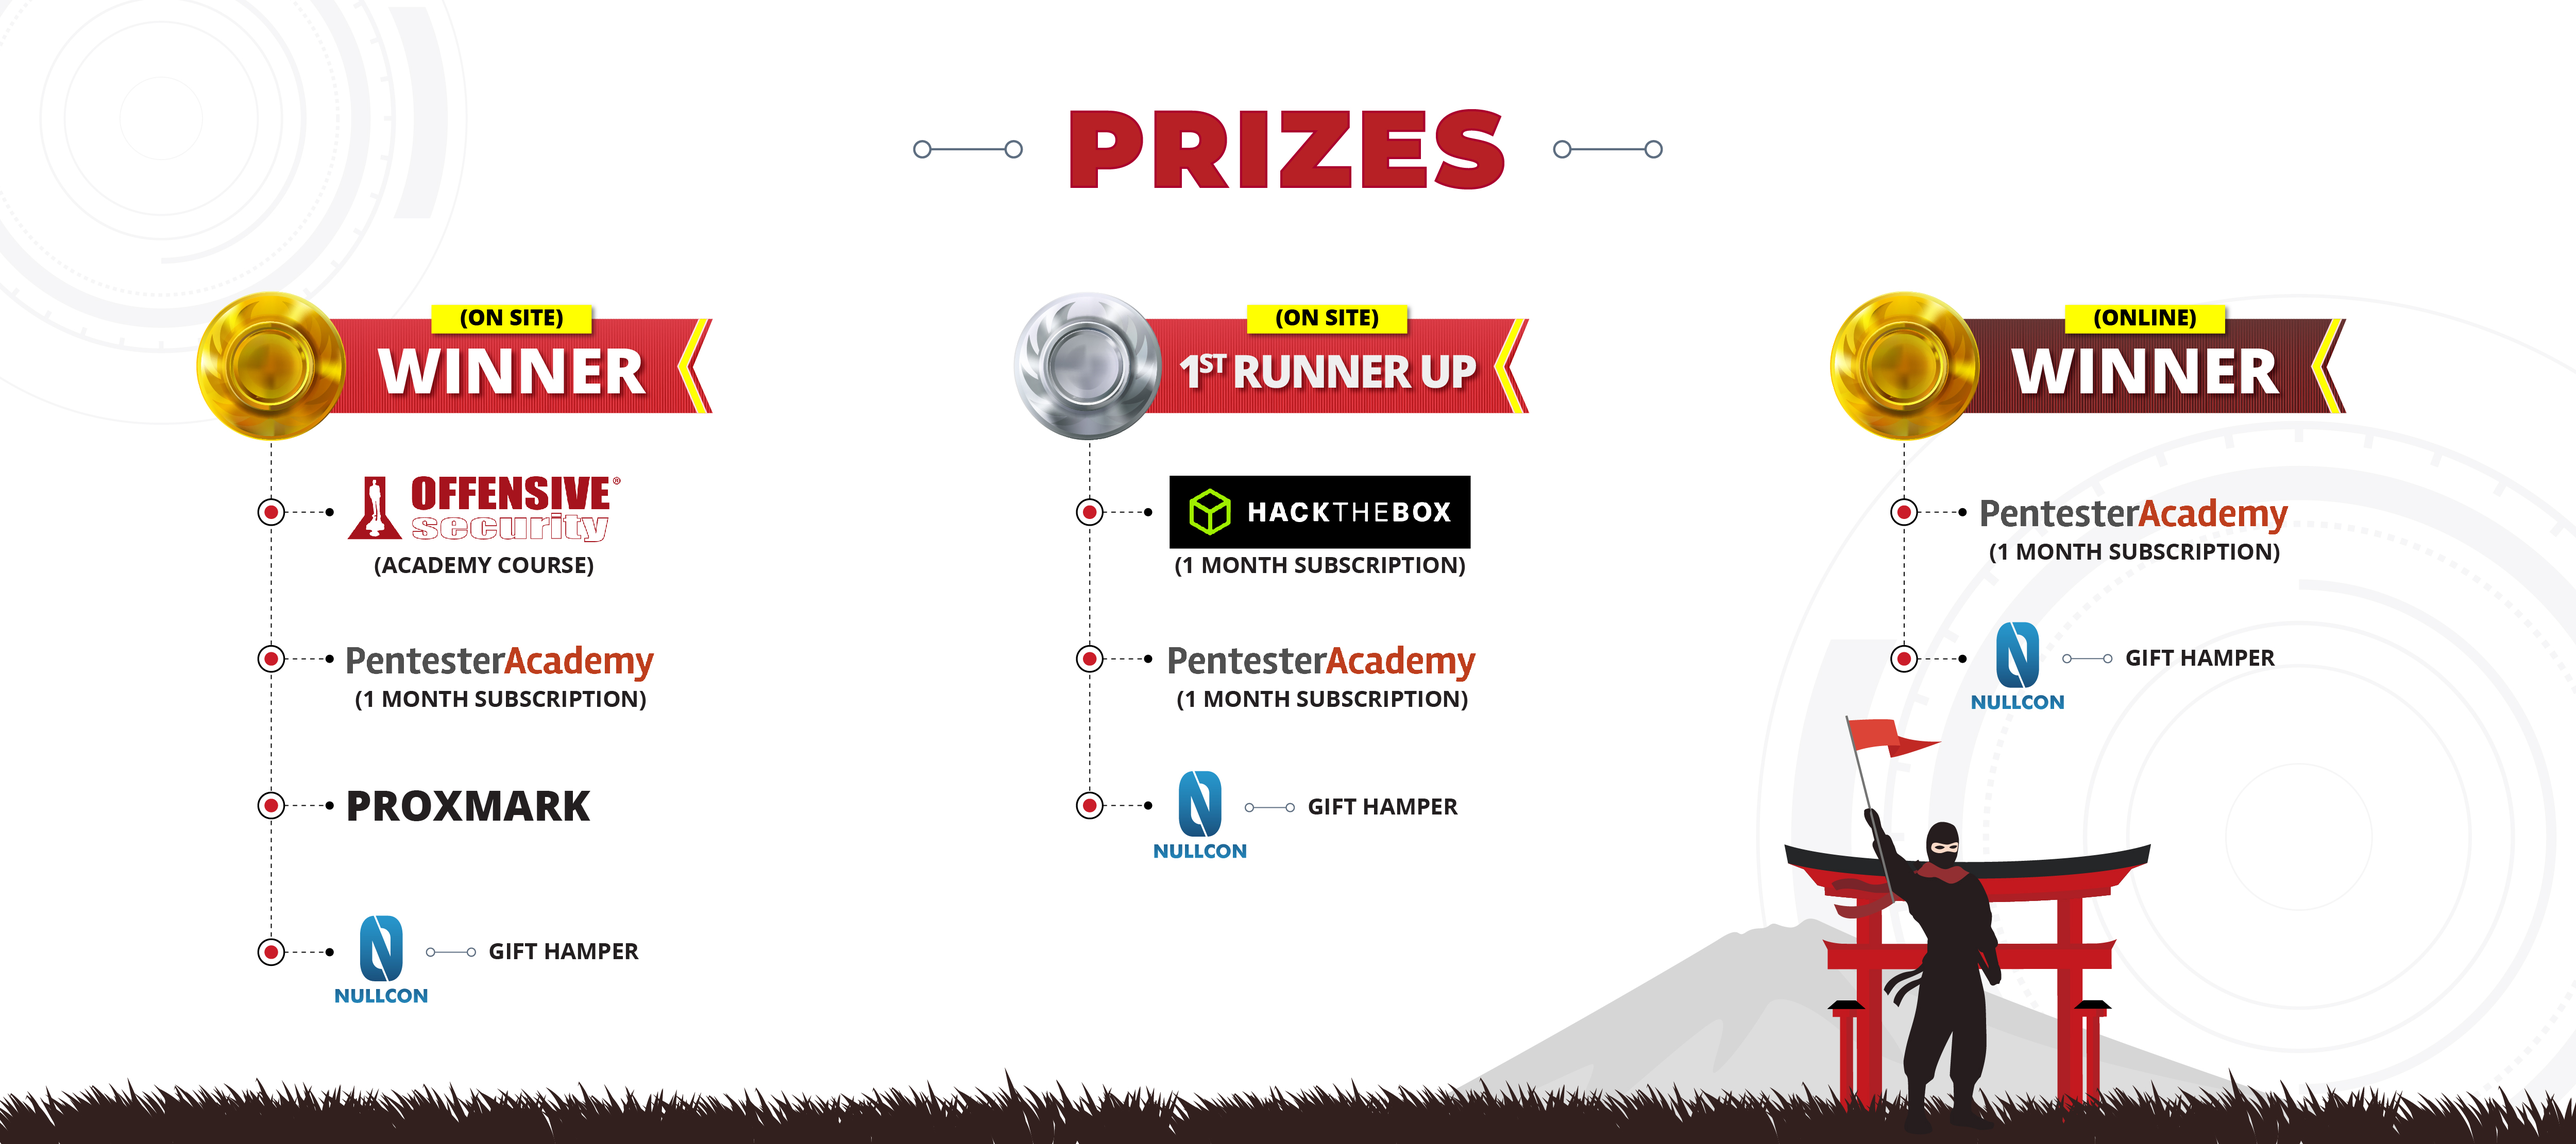
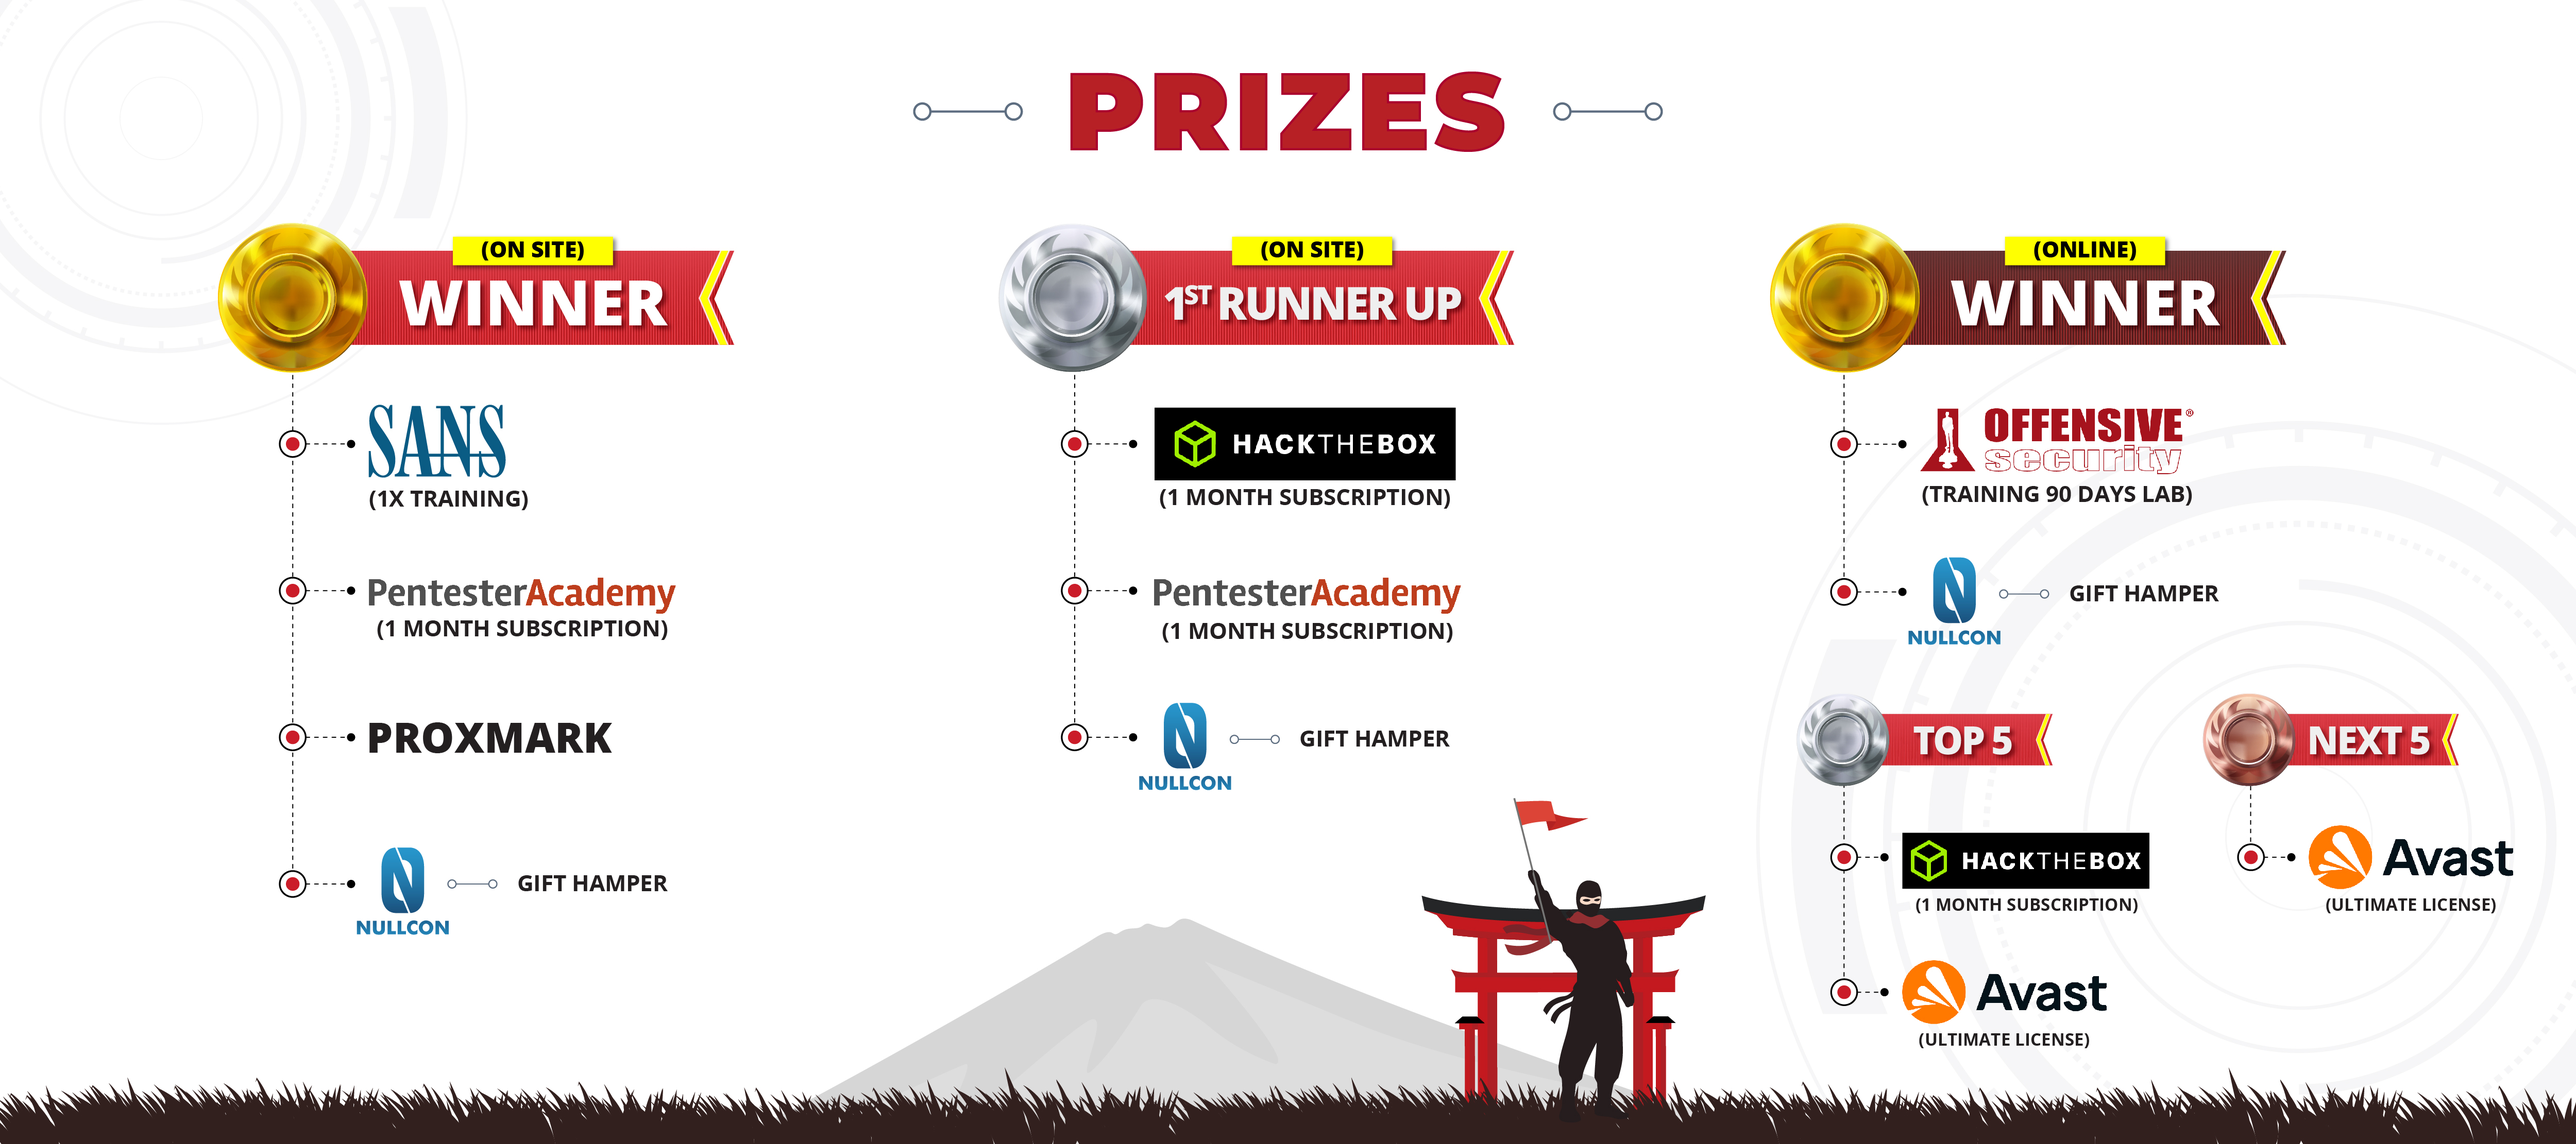
Update prize image

diff --git a/index.html b/index.html
@@ -121,7 +121,7 @@
                     </a>
                     <div class="col-sm-12" style="padding-top: 2rem;">
                         <p>
-                            Additional prizes for <strong>top-5</strong> online scorers and <strong>next-5</strong> online scorers! Visit our <a href="">event page</a> for more details. 
+                            Additional prizes for <strong>top-5</strong> online scorers and <strong>next-5</strong> online scorers! Visit our <a href="https://ctf.winja.site/">event page</a> for more details. 
                         </p>
                         
                     </div>
